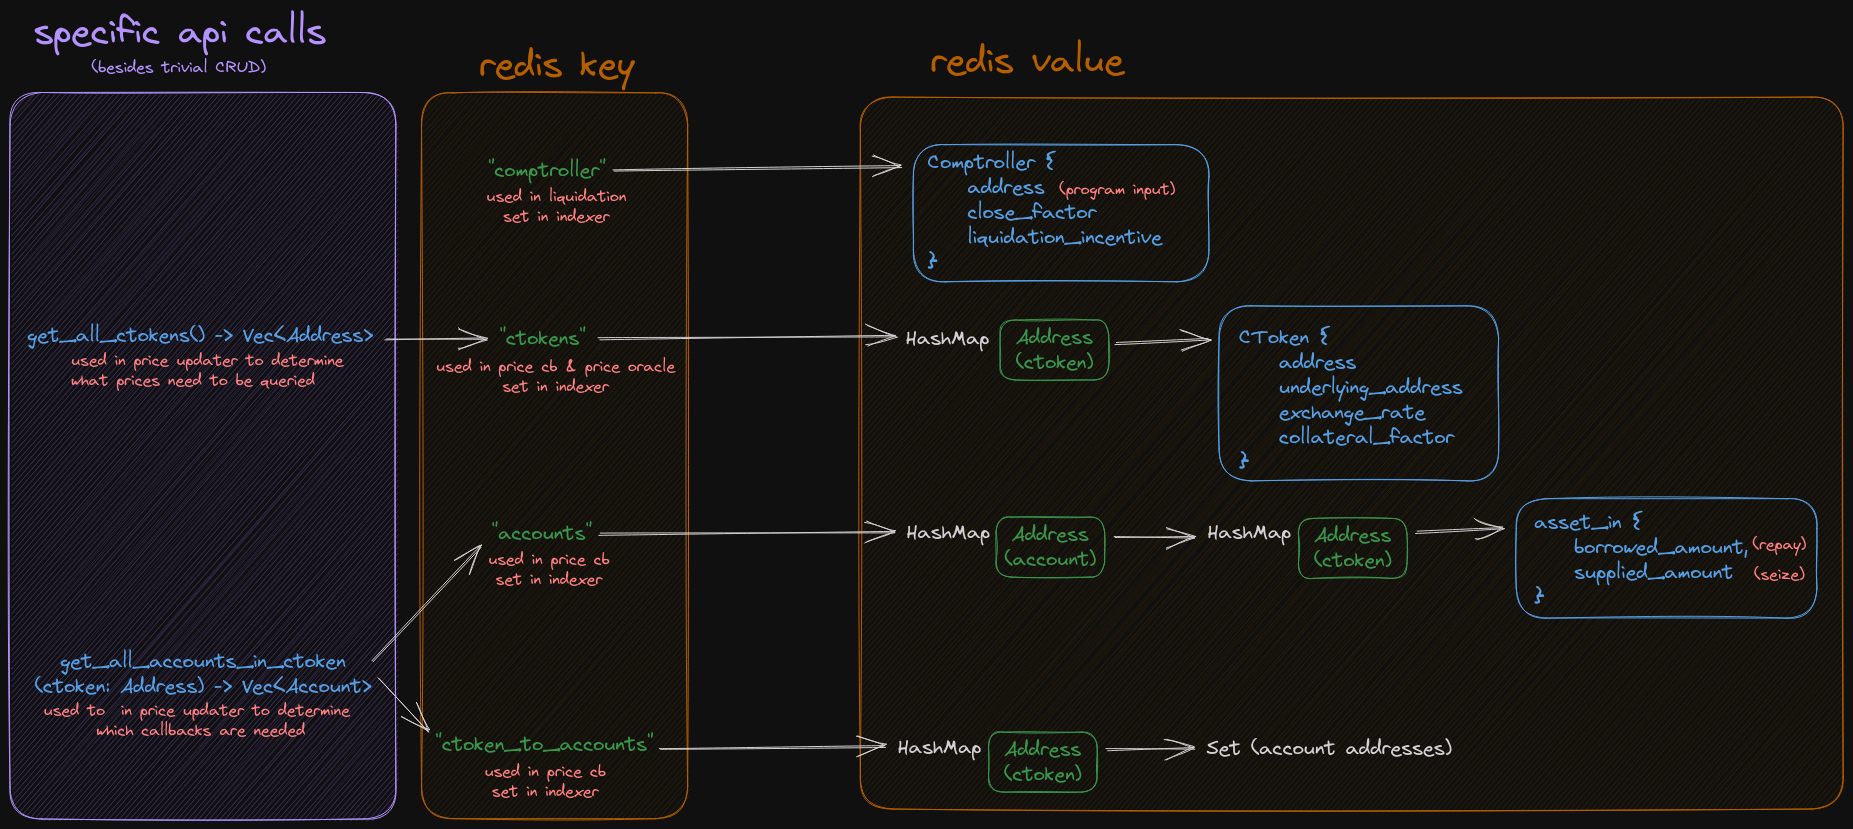
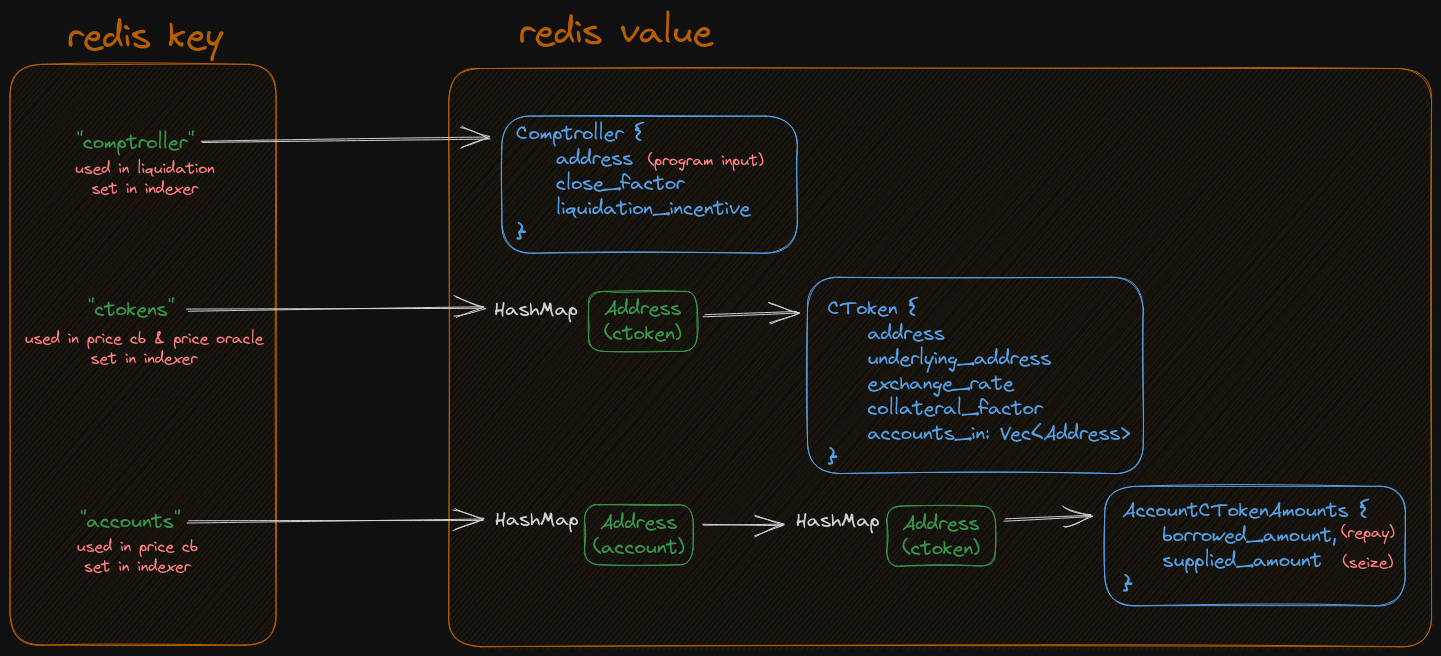
DB schema changes

diff --git a/src/types/db_types.rs b/src/types/db_types.rs
@@ -1,29 +1,27 @@
 use crate::types::{
-    account::Account,
-    account_ctoken::{AccountCToken, AccountCTokenAddress},
-    comptroller::Comptroller,
-    ctoken::CToken,
+    account_ctoken_amounts::AccountCTokenAmounts, comptroller::Comptroller, ctoken::CToken,
 };
 use ethers::types::Address;
 use serde::{Deserialize, Serialize};
+use std::collections::HashMap;
 
 // TODO: should these be traits instead of enums?  Maybe both?
 #[derive(Debug, Serialize, Deserialize, Clone)]
 pub enum DBVal {
-    Account(Account),
-    CToken(CToken),
-    AccountCToken(AccountCToken),
     Comptroller(Comptroller),
-    CTokenToAccounts(Address),
+    CToken(CToken),
+    AllCTokens(Vec<CToken>),
+    AccountToCTokens(HashMap<Address, Vec<AccountCTokenAmounts>>),
+    AccountCTokenAmounts(AccountCTokenAmounts),
 }
 
 #[derive(Debug, Serialize, Deserialize, Clone)]
 pub enum DBKey {
-    Account(Address),
-    CToken(Address),
-    AccountCToken(AccountCTokenAddress),
     Comptroller(),
-    CTokenToAccounts(Address),
+    CToken(Address),
+    AllCTokens(),
+    AccountToCTokens(Address),
+    AccountCTokenAmounts(Address, Address), // account address, ctoken address
 }
 
 impl DBVal {

diff --git a/src/types/ctoken.rs b/src/types/ctoken.rs
@@ -8,6 +8,7 @@ pub struct CToken {
     pub underlying_address: Option<Address>,
     pub exchange_rate: Option<U256>,
     pub collateral_factor: Option<U256>,
+    pub accounts_in: Option<Vec<Address>>,
 }
 
 impl CToken {
@@ -16,12 +17,14 @@ impl CToken {
         underlying_address: Option<Address>,
         exchange_rate: Option<U256>,
         collateral_factor: Option<U256>,
+        accounts_in: Option<Vec<Address>>,
     ) -> CToken {
         Self {
             address,
             underlying_address,
             exchange_rate,
             collateral_factor,
+            accounts_in,
         }
     }
 
@@ -31,6 +34,7 @@ impl CToken {
             underlying_address: None,
             exchange_rate: None,
             collateral_factor: None,
+            accounts_in: None,
         }
     }
 }

diff --git a/src/types/account_ctoken_amounts.rs b/src/types/account_ctoken_amounts.rs
@@ -1,0 +1,27 @@
+use ethers::types::U256;
+use serde::{Deserialize, Serialize};
+
+#[derive(Debug, Serialize, Deserialize, Clone)]
+pub struct AccountCTokenAmounts {
+    pub borrowed_amount: Option<U256>,
+    pub supplied_amount: Option<U256>,
+}
+
+impl AccountCTokenAmounts {
+    pub fn new(
+        borrowed_amount: Option<U256>,
+        supplied_amount: Option<U256>,
+    ) -> AccountCTokenAmounts {
+        Self {
+            borrowed_amount,
+            supplied_amount,
+        }
+    }
+
+    pub fn new_empty() -> AccountCTokenAmounts {
+        Self {
+            borrowed_amount: None,
+            supplied_amount: None,
+        }
+    }
+}

diff --git a/src/handlers/market_exited_handler.rs b/src/handlers/market_exited_handler.rs
@@ -1,7 +1,5 @@
 /* Comptroller MarketExited(Address ctoken, Address account)
 
-Remove ctoken address from assets_in HashMap of Account if it exists
-    remove_ctoken_from_account(account:Address, ctoken:Address)
-Remove account address from set of account addresses in "ctoken_to_accounts" Redis key if it exists
-    remove_account_from_ctoken(ctoken:Address, account:Address)
+Set account->ctoken->ctoken_in.borrow_amount to 0 if they all exist
+
 */

diff --git a/src/types.rs b/src/types.rs
@@ -1,5 +1,4 @@
-pub mod account;
-pub mod account_ctoken;
+pub mod account_ctoken_amounts;
 pub mod command;
 pub mod comptroller;
 pub mod ctoken;

diff --git a/README.md b/README.md
@@ -35,6 +35,7 @@ TODO: rework readme
 - TESTS!
 
 ## Phase 3: Scale
+- run it through a profiler to find bottlenecks
 - using get_logs or get_logs_paginated might be more efficient than query
 - Determine smallest accurate amount of current users.  Phase 1 just took all users who entered a market, but we could also maybe use marketExited to find out which users are still around
 - make the redis db secure (close ports?)
